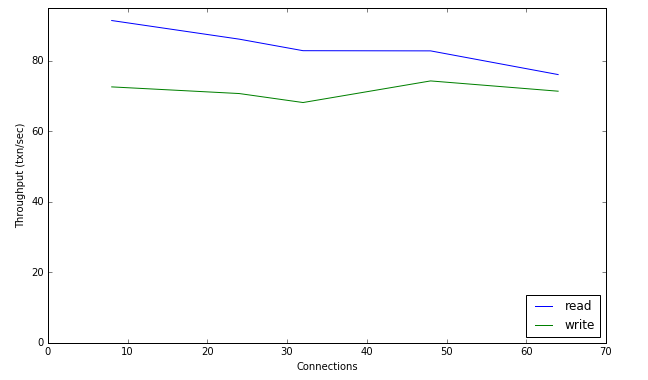
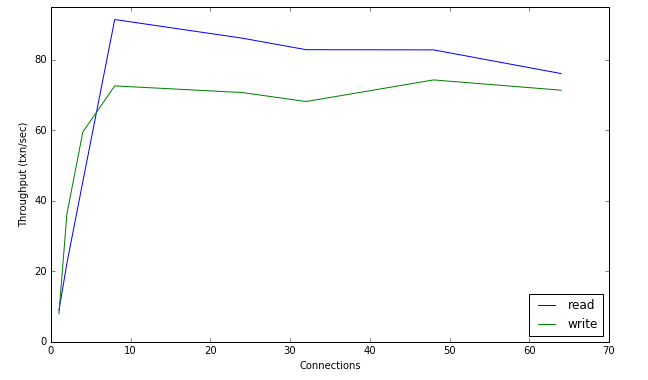
Bibliography changes

diff --git a/CPSC 438 Final Project Paper.tex b/CPSC 438 Final Project Paper.tex
@@ -191,7 +191,7 @@ We next tested the throughput of HDFS reads as more small files were added to th
 We found that there was no decrease in throughput as more files were added. As shown in Figure 4, the read throughput hovered around 100 files per second. This supports the HDFS design assumption that metadata operations are inexpensive relative to other file system and network operations of HDFS. Moreover, it does not support the hypothesis that disk seeks on random file access are more expensive when more files were added.
 
 \begin{center}
-	\includegraphics[keepaspectratio=true, width=0.45\textwidth]{ThroughputResults}	
+	\includegraphics[keepaspectratio=true, width=0.45\textwidth]{ThroughputResults}
 	\textit{Fig. 4: Isolated Read/Isolated Write Throughput}
 \end{center}
 \subsubsection{Experiment 4: Write Throughput}\label{WriteThroughput}
@@ -215,18 +215,21 @@ The results of our experiments showed that...
 % -------------------------------------------------
 A dataset consisting of a large number of small files would likely receive a higher frequency of queries than another dataset. A typical client will read a file, process that file's data, then request the next file. Small files will be processed at the client more quickly than large files, therefore one would expect the client to have a higher frequency of requests. Since each request must first query the NameNode for a block mapping, this will put a large strain on the NameNode. In this section we explore the possibility that this usage pattern associated with small files results in a bottleneck.
 
-
+Our experimental setup was as follows. Again we used HDFSClient threads querying from multiple machines. We uploaded a large set of roughly 25,000 10-byte files to HDFS. The HDFSClients then randomly read these files to their local file system. We measured the throughput of these requests as the number of clients varied from a single connection thread and moving up to 64 HDFSClients. Each client made requests as quickly as possible, and we looked for a decrease in throughput as the NameNode received more concurrent read and write queries. This produced the following graph.
+\begin{center}
+	\includegraphics[keepaspectratio=true, width=0.45\textwidth]{ConcurrencyResults}	
+	\textit{Fig. 5: Read Throughput vs. Request Frequency}
+\end{center}
+We see that there is an initial spike in throughput as the number of the utilization of the DataNodes increases. In the case of reads, there is a moderate decrease in the number of connections beyond 8. This is likely due to the fact that random reads involve disk seeks between each 
 \section{Improvements to Single NameNode Architecture}\label{Improvements}
 
 % Use experimental data to determine what is actually detrimental to performance of HDFS, and suggest a way to improve it
-
 % -------------------------------------------------
-
 % Would it be helpful to remove the assumption that each file is assigned to its own block? Could be done with intermediate layer that puts small files into larger file, prevents edits
 
 % 
 
-% mention HDFS federation, CalvinFS
+% TODO: Mention HDFS federation, CalvinFS
 % 
 
 Some improvements have been suggested to solve the scalability problems with HDFS. Hadoop has provided the HDFS Federation, a solution which creates multiple NameNodes each of which has completely separate namespaces \cite{Federation}. If the use can guarantee that there will not be cross-partition transaction that must access files on multiple NameNodes, this partitioning can increase the memory limit. However, this is more of a quick fix than a solution to the underlying architectural problem. 
